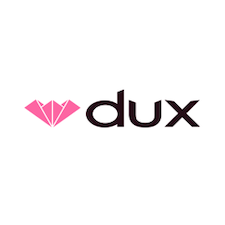
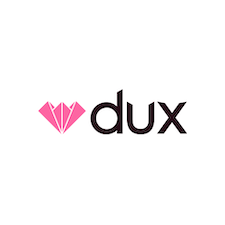
more dux

Changed region(s): [[0.0933, 0.3733, 0.9022, 0.6222]]

diff --git a/sponsors.md b/sponsors.md
@@ -30,7 +30,7 @@ Achieving a high common level of cybersecurity across Europe.
 Vulners is an all-in-one vulnerability intelligence database that aggregates over 200 data sources, providing a unified platform for accessing a vast array of security-related information. With more than 4 million constantly updated entries, it includes Common Vulnerabilities and Exposures (CVEs), vendor security advisories, exploits, and Indicators of Compromise (IoC), making it essential for staying updated on cybersecurity threats. Vulners platform offers a robust scalable API for complex search queries allowing users to find vulnerabilities by various parameters such as software name and version, or CPE. Vulners also offers enriched context for vulnerabilities, including proprietary AI Score and common metrics like CVSS, EPSS, SSVC, enabling users to prioritize remediation efforts effectively.
 <hr>
 
-* ![Dux](../assets/sponsor-dux-sq-225.png "Dux")
+* ![Dux](../assets/sponsor-dux-sq.png "Dux")
 ### Bronze Sponsor | &nbsp;&nbsp;&nbsp; [Dux](https://dux.io/)
 Safety at machine speed.
 <hr>
